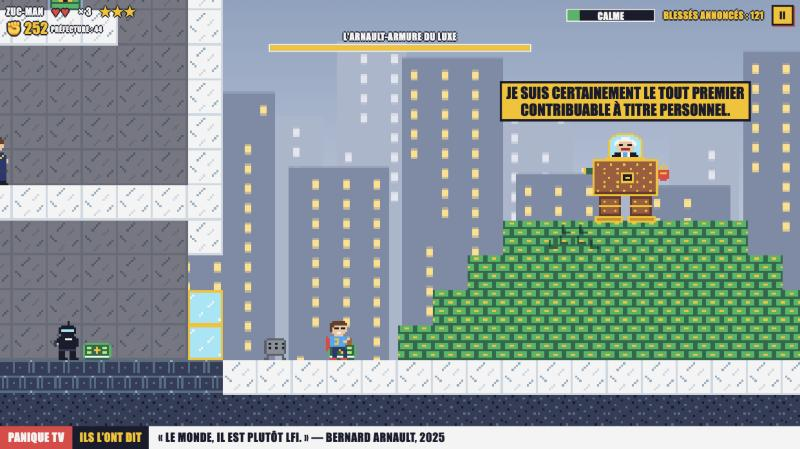
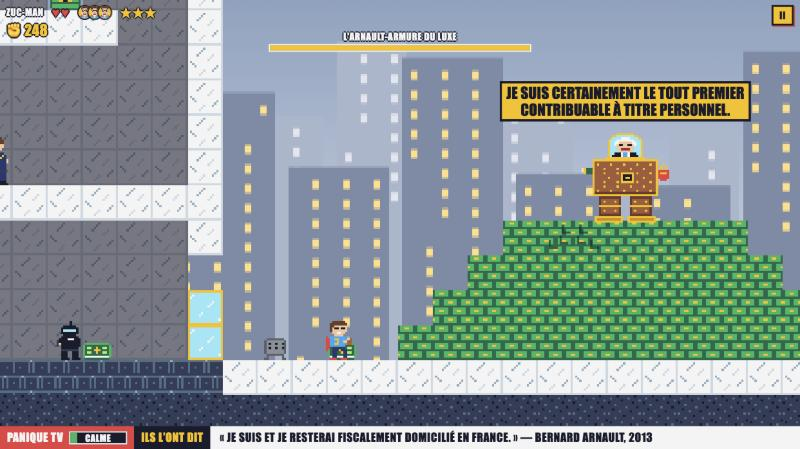
docs: captures de l'itération 3

diff --git a/README.md b/README.md
@@ -14,16 +14,18 @@ Un run-and-gun en pixel art où vous incarnez l'ultragauche telle que les platea
 | | |
 |---|---|
 | ![Place de la République : la manif part à dix](docs/captures/manif-republique.jpg) | ![Le barrage cède à 200](docs/captures/barrage.jpg) |
-| ![Le lycée bloqué : BAC, lycéennes, assemblée générale](docs/captures/lycee-bloque.jpg) | ![La nasse](docs/captures/nasse.jpg) |
+| ![Le lycée bloqué : BAC, lycéennes, assemblée générale](docs/captures/lycee-bloque.jpg) | ![La nasse se referme](docs/captures/nasse.jpg) |
 | ![Canon à eau et BRAV-M](docs/captures/canon-a-eau.jpg) | ![L'hélicoptère et son projecteur](docs/captures/millevaches-helicoptere.jpg) |
 | ![La grille de la Citadelle](docs/captures/grille.jpg) | ![Le boss, assis sur sa fortune](docs/captures/boss-assis.jpg) |
 
-![Taxer 2 % : il lui reste 98 %](docs/captures/taxe-apres.jpg)
+![Sur téléphone : l'image remplit l'écran, tout l'écran répond](docs/captures/mobile-paysage.jpg)
 
 | | |
 |---|---|
-| ![La Collection : en face](docs/captures/collection-en-face.jpg) | ![La Collection : camarades](docs/captures/collection-camarades.jpg) |
-| ![La Collection : pancartes vues en manif](docs/captures/collection-pancartes.jpg) | ![Un niveau s'ouvre sur une vraie déclaration](docs/captures/ouverture.jpg) |
+| ![Une fortune, face à un chirurgien](docs/captures/taxe-echelle.jpg) | ![2 % : moins que ses dividendes](docs/captures/taxe-2-pour-cent.jpg) |
+| ![Qui paie combien ?](docs/captures/taxe-qui-paie.jpg) | ![Ce que ça finance](docs/captures/taxe-enseignants.jpg) |
+| ![La Collection](docs/captures/collection-grille.jpg) | ![Une carte : ses faits, ses sources](docs/captures/collection-carte.jpg) |
+| ![On choisit son héros ; le niveau s'ouvre sur une vraie déclaration](docs/captures/ouverture.jpg) | ![Fin de niveau : la manif, et le bilan détaillé](docs/captures/fin-de-niveau.jpg) |
 
 <details>
 <summary>Plus de captures</summary>
@@ -32,8 +34,9 @@ Un run-and-gun en pixel art où vous incarnez l'ultragauche telle que les platea
 |---|---|
 | ![Le menu](docs/captures/menu.jpg) | ![Carton de héros](docs/captures/carton-heros.jpg) |
 | ![Millevaches : le rond-point](docs/captures/millevaches-rond-point.jpg) | ![Millevaches : la grange](docs/captures/millevaches-grange.jpg) |
-| ![Millevaches : la méga-bassine](docs/captures/millevaches-bassine.jpg) | ![Fin de niveau : les deux comptages](docs/captures/fin-de-niveau.jpg) |
-| ![Avant l'impôt](docs/captures/taxe-avant.jpg) | ![L'appel au vote](docs/captures/appel-au-vote.jpg) |
+| ![Millevaches : la méga-bassine](docs/captures/millevaches-bassine.jpg) | ![Le duplex de BFM-TV cadre le héros](docs/captures/duplex-bfm.jpg) |
+| ![La panique est celle de la chaîne](docs/captures/panique-bandeau.jpg) | ![Ce que la fortune rapporte](docs/captures/taxe-dividendes.jpg) |
+| ![Téléphone tenu debout : le jeu pivote](docs/captures/mobile-tenu-debout.jpg) | ![L'appel au vote](docs/captures/appel-au-vote.jpg) |
 
 ![L'Atelier : un niveau est un texte](docs/captures/atelier.jpg)
 
